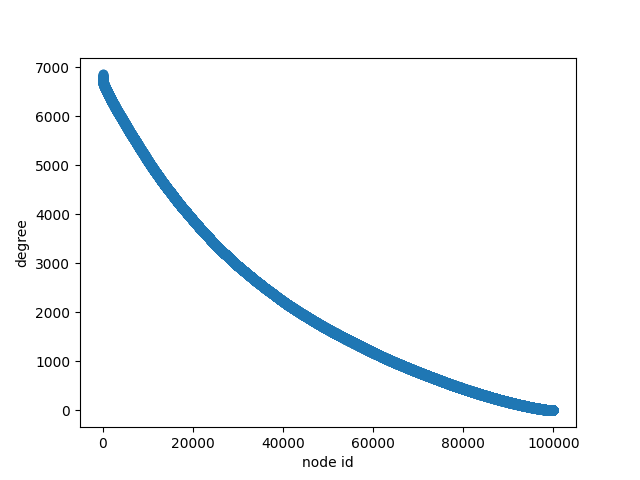
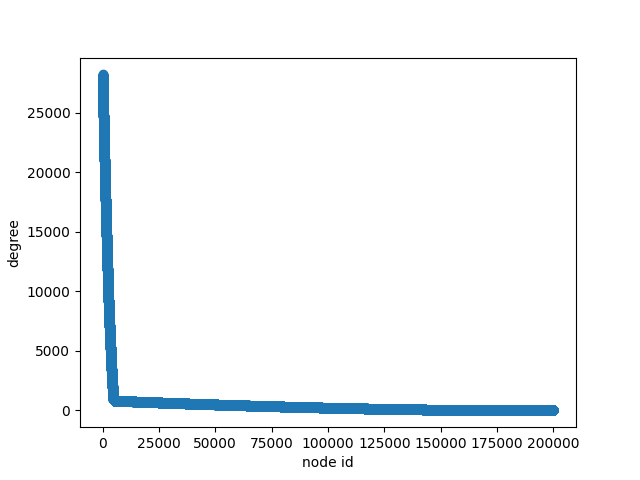
update

diff --git a/main.go b/main.go
@@ -11,6 +11,8 @@ import (
 	"gonum.org/v1/gonum/stat/distuv"
 )
 
+const PARALLEL = 35
+
 var (
 	numberOfNodes      int
 	numberOfPartitions int
@@ -41,27 +43,16 @@ func main() {
 		os.Exit(1)
 	}
 
-	B := make([][]float64, numberOfPartitions)
-	for i := 0; i < numberOfPartitions; i++ {
-		B[i] = make([]float64, numberOfPartitions)
-	}
-	for i := 0; i < numberOfPartitions; i++ {
-		for j := 0; j < numberOfPartitions; j++ {
-			if i == j {
-				B[i][j] = pIn
-			} else {
-				B[i][j] = pOut
-			}
-		}
-	}
-
-	// B := sparse.NewDOK(numberOfPartitions, numberOfPartitions)
+	// B := make([][]float64, numberOfPartitions)
+	// for i := 0; i < numberOfPartitions; i++ {
+	// 	B[i] = make([]float64, numberOfPartitions)
+	// }
 	// for i := 0; i < numberOfPartitions; i++ {
 	// 	for j := 0; j < numberOfPartitions; j++ {
 	// 		if i == j {
-	// 			B.Set(i, j, pIn)
+	// 			B[i][j] = pIn
 	// 		} else {
-	// 			B.Set(i, j, pOut)
+	// 			B[i][j] = pOut
 	// 		}
 	// 	}
 	// }
@@ -73,7 +64,7 @@ func main() {
 		z[i] = int(i / int(numberOfNodes/numberOfPartitions))
 	}
 
-	expo := distuv.Exponential{Rate: r}
+	expo := distuv.Exponential{Rate: r} // 期待値は1/r
 
 	delta := make([]float64, numberOfNodes)
 	for i := 0; i < numberOfNodes; i++ {
@@ -127,55 +118,73 @@ func main() {
 	// }
 
 	edges := make(map[int][]int)
-	if numberOfNodes < 500000 {
-		// edges O(N^2)
-		for i := 0; i < numberOfNodes; i++ {
-			for j := 0; j < numberOfNodes; j++ {
-				if j == i {
-					continue // self loop
+
+	// // edges O(N^2)
+	// for i := 0; i < numberOfNodes; i++ {
+	// 	for j := 0; j < numberOfNodes; j++ {
+	// 		if j == i {
+	// 			continue // self loop
+	// 		}
+	// 		p := math.Pow(B[z[i]][z[j]], 1.0+delta[i]+delta[j])
+	// 		bern := distuv.Bernoulli{P: p}
+	// 		ele := bern.Rand()
+	// 		if ele == 1 {
+	// 			if len(edges[i]) == 0 {
+	// 				edges[i] = []int{j}
+	// 			} else {
+	// 				edges[i] = append(edges[i], j)
+	// 			}
+	// 		}
+	// 	}
+	// }
+
+	// edges 並行版 w/ lock
+	var mu sync.Mutex
+	calc := func(edges *map[int][]int, z *[]int, delta *[]float64, i, from, to int, pIn, pOut float64, ch chan int) {
+		mu.Lock()
+		defer mu.Unlock()
+		for j := from; j < to; j++ {
+			if j == i {
+				continue // self loop
+			}
+			var p float64
+			if (*z)[i] == (*z)[j] {
+				p = math.Pow(pIn, 1.0+(*delta)[i]+(*delta)[j])
+			} else {
+				p = math.Pow(pOut, 1.0+(*delta)[i]+(*delta)[j])
+			}
+			bern := distuv.Bernoulli{P: p}
+			ele := bern.Rand()
+			if ele == 1 {
+				// mu.Lock()
+				if len((*edges)[i]) == 0 {
+					(*edges)[i] = []int{j}
+				} else {
+					(*edges)[i] = append((*edges)[i], j)
 				}
-				p := math.Pow(B[z[i]][z[j]], 1.0+delta[i]+delta[j])
-				bern := distuv.Bernoulli{P: p}
-				ele := bern.Rand()
-				if ele == 1 {
-					if len(edges[i]) == 0 {
-						edges[i] = []int{j}
-					} else {
-						edges[i] = append(edges[i], j)
-					}
-				}
+				// mu.Unlock()
 			}
 		}
-	} else {
-		// edges 並行版 w/ lock
-		var mu sync.Mutex
-		calc := func(edges map[int][]int, B *[][]float64, z *[]int, delta *[]float64, i int, ch chan int) {
-			for j := 0; j < numberOfNodes; j++ {
-				if j == i {
-					continue // self loop
-				}
-				p := math.Pow((*B)[(*z)[i]][(*z)[j]], 1.0+(*delta)[i]+(*delta)[j])
-				bern := distuv.Bernoulli{P: p}
-				ele := bern.Rand()
-				if ele == 1 {
-					mu.Lock()
-					if len(edges[i]) == 0 {
-						edges[i] = []int{j}
-					} else {
-						edges[i] = append(edges[i], j)
-					}
-					mu.Unlock()
-				}
+		ch <- 1
+	}
+	ch := make(chan int)
+	for i := 0; i < numberOfNodes; i++ {
+		last := numberOfNodes % PARALLEL
+		width := (numberOfNodes - last) / PARALLEL
+		for j := 0; j < PARALLEL; j++ {
+			var from, to int
+			if j != PARALLEL-1 {
+				from = j * width
+				to = (j + 1) * width
+			} else {
+				from = j * width
+				to = j + last
 			}
-			ch <- 1
+			go calc(&edges, &z, &delta, i, from, to, pIn, pOut, ch)
 		}
-		ch := make(chan int)
-		for i := 0; i < numberOfNodes; i++ {
-			go calc(edges, &B, &z, &delta, i, ch)
-		}
-		for i := 0; i < numberOfNodes; i++ {
-			<-ch // wait goroutines
-		}
+	}
+	for i := 0; i < numberOfNodes; i++ {
+		<-ch // wait goroutines
 	}
 
 	for u := 0; u < numberOfNodes; u++ {

diff --git a/check.py b/check.py
@@ -37,6 +37,10 @@ def plot_degree_by_id(g):
 # A = np.loadtxt('test.csv', delimiter=' ', dtype='int64')
 # G = nx.Graph(A)
 G = nx.read_adjlist("test.adjlist", nodetype=int)
+zero_degree_nodes = [node for node in G.nodes() if G.degree(node) == 0]
+print("#all nodes:         {}".format(G.number_of_nodes()))
+print("#all edges:         {}".format(G.number_of_edges()))
+print("#zero-degree nodes: {}".format(len(zero_degree_nodes)))
 plot_degree_histogram(G)
 plt.cla()
 plot_degree_by_id(G)

diff --git a/memo.md b/memo.md
@@ -1,5 +1,7 @@
-go run main.go -n=100000 -p=1000 -in=0.5 -out=0.1 -r=0.25 > test.csv && python3 check.py
+```
+$ time go run main.go -n=200000 -p=2000 -in=0.9 -out=0.4 -r=0.5 > test.adjlist
 
--> 126Gbでは足りない
-
-30分？
+real    2m58.329s
+user    6m46.862s
+sys     11m54.773s
+```
